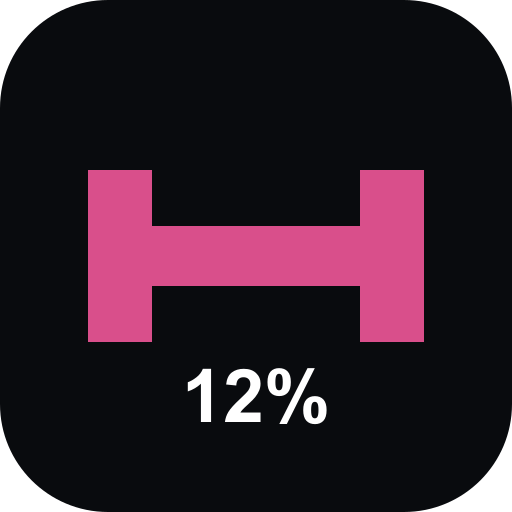
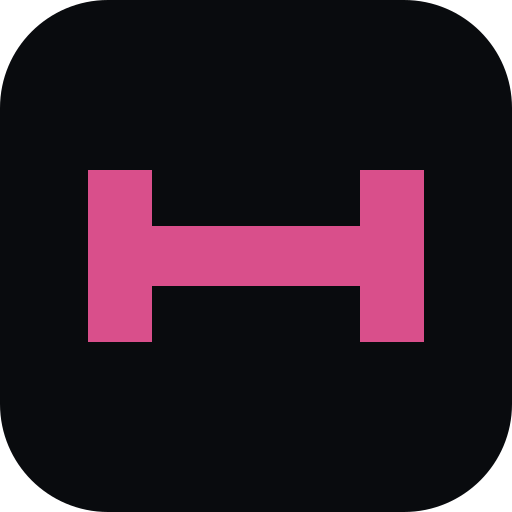
feat: complete CarrieFit workout theme

Changed region(s): [[0.3438, 0.7188, 0.6562, 0.8438]]

diff --git a/app.js b/app.js
@@ -455,7 +455,7 @@ function sessionTotals(session){
 
 function setTab(t){state.tab=t;save();render()}
 nav.forEach(b=>b.onclick=()=>setTab(b.dataset.tab));
-document.querySelector("#reset").onclick=()=>{if(confirm("Reset CarrieFit workout data?")){carriefitStorage.remove();location.reload()}};
+document.querySelector("#reset").onclick=()=>carrieConfirm({title:"Reset CarrieFit?",message:"This removes the workout data saved on this device.",confirmLabel:"Reset CarrieFit",onConfirm:()=>{carriefitStorage.remove();location.reload()}});
 function ensurePhase1Button(){
  let button=document.querySelector("#phase1LibraryButton");
  if(!button){
@@ -487,9 +487,9 @@ function showDayPlan(dayIndex=state.selectedDay){
  document.querySelector("#previewBack").onclick=()=>{state.previewDay=null;save();home()};
  document.querySelector("#previewAction").onclick=()=>{
    if(day.action==="progress")return setTab("progress");
-   if(!isToday&&!confirm(`Start ${day.title} early?`))return;
-   const selectedSchedule=previewScheduleForDay(state.workoutSessions,dayIndex,localDateKey());
-   startNewSession(dayIndex,selectedSchedule);setTab("workout");
+   const beginWorkout=()=>{const selectedSchedule=previewScheduleForDay(state.workoutSessions,dayIndex,localDateKey());startNewSession(dayIndex,selectedSchedule);setTab("workout");};
+   if(!isToday)return carrieConfirm({title:`Start ${day.title} early?`,message:"This begins the selected workout without changing your saved program order.",confirmLabel:"Start workout",onConfirm:beginWorkout});
+   beginWorkout();
  };
 }
 
@@ -948,7 +948,7 @@ function saveAttachmentPhoto(key,file){
      canvas.width=Math.round(img.width*scale);canvas.height=Math.round(img.height*scale);
      canvas.getContext("2d").drawImage(img,0,0,canvas.width,canvas.height);
      state.attachmentPhotos[key]=canvas.toDataURL("image/jpeg",.76);
-     try{save();equipment()}catch(err){alert("That photo is too large to store. Try a closer photo or screenshot.");}
+     try{save();equipment()}catch(err){carrieNotice("Photo too large","Try a closer photo or screenshot.");}
    };
    img.src=reader.result;
  };
@@ -960,7 +960,7 @@ function sessionDetail(session){
  <section class="card"><h2>Exercises completed</h2><div class="history-exercise-list">${(session.exercises||[]).length?(session.exercises||[]).map(ex=>`<details class="history-exercise" open><summary><span><strong>${ex.name}</strong>${ex.originalExercise?`<small>Substituted for ${ex.originalExercise}</small>`:""}</span><span>${(ex.sets||[]).filter(s=>s?.done).length} sets</span></summary><div class="history-set-head"><span>SET</span><span>${ex.weightEntry?.mode==="dual"?"LB / STACK":"WEIGHT"}</span><span>REPS</span><span>STATUS</span></div>${(ex.sets||[]).map((s,i)=>`<div class="history-set-row"><strong>${i+1}</strong><span>${s?.weight!==undefined&&s?.weight!==""?`${s.weight} lb`:"—"}${ex.weightEntry?.mode==="dual"&&s?.weight?`<small>${Number(s.weight)*2} lb combined selected</small>`:""}</span><span>${s?.reps||"—"}</span><span>${s?.done?"✓ Complete":"Not marked"}</span></div>`).join("")||'<p class="muted">No set details were stored.</p>'}<div class="history-weight-note"><strong>${ex.weightEntry?.label||"Weight used"}</strong><p>${ex.weightEntry?.help||""}</p></div></details>`).join(""):'<p class="muted">The older session record did not contain exercise details.</p>'}</div></section>
  <button class="secondary" id="repeatHistory">Repeat this workout</button>`;
  document.querySelector("#historyBack").onclick=()=>{state.historyView=null;save();progress()};
- document.querySelector("#repeatHistory").onclick=()=>{if(confirm("Start a new Full Body A workout? This saved session will not be changed.")){state.historyView=null;startNewSession();setTab("workout")}};
+ document.querySelector("#repeatHistory").onclick=()=>carrieConfirm({title:"Repeat this workout?",message:"A new Full Body A workout will start. This saved session will not be changed.",confirmLabel:"Start workout",onConfirm:()=>{state.historyView=null;startNewSession();setTab("workout")}});
 }
 
 /* =========================================================
@@ -1372,11 +1372,11 @@ function importV1131Backup(file){
      if(incoming.waist)state.waist=incoming.waist;
      if(incoming.preferredName)state.preferredName=incoming.preferredName;
      save();
-     alert(`Backup imported. ${state.history.length} workout${state.history.length===1?"":"s"} available.`);
+     carrieNotice("Backup imported",`${state.history.length} workout${state.history.length===1?"":"s"} available.`);
      state.historyView=null;
      progress();
    }catch(error){
-     alert(`Could not import backup: ${error.message}`);
+     carrieNotice("Could not import backup",error.message);
    }
  };
  reader.readAsText(file);
@@ -2156,12 +2156,12 @@ function workoutLanding(){
   };
 
   document.querySelector("#restartWorkout")?.addEventListener("click",()=>{
-    if(confirm(`Restart ${plan.title} from the beginning?`)){
+    carrieConfirm({title:`Restart ${plan.title}?`,message:"Your current progress in this workout will be replaced and the session will begin again.",confirmLabel:"Restart workout",onConfirm:()=>{
       startNewSession(dayIndex);
       state.tab="workout";
       save();
       workout();
-    }
+    }});
   });
 }
 
@@ -2310,6 +2310,19 @@ function v42Dialog(content,label="Dialog",options={}){
  requestAnimationFrame(()=>overlay.querySelector("#v42DialogTitle")?.focus());
  return overlay;
 }
+function carrieConfirm({title,message,confirmLabel="Continue",onConfirm}){
+ const safeTitle=escapeAdaptiveText(title),safeMessage=escapeAdaptiveText(message),safeConfirmLabel=escapeAdaptiveText(confirmLabel);
+ const dialog=v42Dialog(`<span class="pill">CARRIEFIT</span><h2>${safeTitle}</h2><p>${safeMessage}</p><div class="v42-dialog-actions"><button class="primary" id="carrieDialogConfirm" type="button">${safeConfirmLabel}</button><button class="secondary" id="carrieDialogCancel" type="button">Cancel</button></div>`,safeTitle,{showClose:false});
+ dialog.querySelector("#carrieDialogConfirm").onclick=()=>{closeV42Dialog();onConfirm?.()};
+ dialog.querySelector("#carrieDialogCancel").onclick=closeV42Dialog;
+ return dialog;
+}
+function carrieNotice(title,message){
+ const safeTitle=escapeAdaptiveText(title),safeMessage=escapeAdaptiveText(message);
+ const dialog=v42Dialog(`<span class="pill">CARRIEFIT</span><h2>${safeTitle}</h2><p>${safeMessage}</p><div class="v42-dialog-actions"><button class="primary" id="carrieDialogOkay" type="button">Okay</button></div>`,safeTitle,{showClose:false});
+ dialog.querySelector("#carrieDialogOkay").onclick=closeV42Dialog;
+ return dialog;
+}
 function explainCalendarItem(kind,key){
  const item=(kind==="status"?V42_STATUS:V42_TYPES)[key];
  v42Dialog(`<span class="legend-dialog-icon">${item.icon}</span><h2>${item.label}</h2><p>${item.description}</p>`,item.label);
@@ -2392,7 +2405,7 @@ function applyWorkoutReschedule(session,targetDate){
    localDateKey()
  );
  if(!moved){
-   alert("Choose an available training date. Completed workouts and protected rest days cannot be moved.");
+   carrieNotice("Choose another date","Completed workouts and protected rest days cannot be moved.");
    return;
  }
  save();

diff --git a/app.css b/app.css
@@ -2356,3 +2356,99 @@ button:focus-visible,input:focus-visible,select:focus-visible,textarea:focus-vis
 @media(prefers-color-scheme:dark){
   :root{color-scheme:light}
 }
+
+/* CarrieFit v1.1.2 — complete workout and dialog theme */
+body.workout-mode{background:radial-gradient(circle at 50% -100px,rgba(217,79,139,.16),transparent 330px),var(--bg)}
+body.workout-mode header{border-color:var(--line);background:transparent}
+.workout-launch-card,
+.workout-card,
+.v111-workout-card,
+.timer-card,
+.workout-rating,
+.session-detail-header,
+.day-preview-card{border-color:var(--line);background:linear-gradient(145deg,#fff,#fff8fc);color:var(--plum);box-shadow:var(--shadow)}
+.workout-launch-card h2,
+.workout-card h2,
+.workout-card h3,
+.workout-rating h3,
+.session-detail-header h2{color:var(--plum)}
+.launch-summary div,
+.brief-grid div,
+.setup-grid div,
+.preview-exercise-list li,
+.setup-section,
+.movement-instructions,
+.setup-route>div,
+.exercise-visual-section,
+.why-card,
+.weight-coach-card,
+.coach-mode-card,
+.attachment-card,
+.position-card,
+.performance-step,
+.pin-guide,
+.pin-chip,
+.sequence-step,
+.weight-entry-explainer,
+.locker-item,
+.history-exercise,
+.history-card,
+.recovery-workout-facts>div{border-color:var(--line);background:#fffafd;color:var(--plum)}
+.preview-exercise-list li span,
+.setup-section .section-number,
+.section-heading>span,
+.setup-route>div>span,
+.performance-index,
+.sequence-step>span{background:#f6d9e6;color:var(--pink-deep)}
+.setup-section small,
+.section-heading small,
+.sequence-step>strong,
+.weight-entry-explainer .previous-weight{color:var(--pink-deep)}
+.setup-section p,
+.sequence-step p,
+.weight-entry-explainer p,
+.weight-entry-explainer small,
+.rest-coach-message{color:#665660}
+.setup-block-banner,
+.compact-block-banner{border-color:#c8dfd4;background:#edf8f3}.setup-block-banner small{color:#2d7859}.setup-block-banner span{color:#617068}
+.pin-values span{border-color:#e2cbd6;background:#f9e8f0;color:var(--plum)}
+.plate-calculator{border-color:#ead3a9;background:#fff9ec}.plate-result{background:#fff3d9;color:#7f5819}
+.set-table-head{color:var(--muted)}
+.set-row input{box-shadow:inset 0 0 0 1px rgba(217,79,139,.03)}
+.combined-weight{color:#2e7e5d}
+.timer-card{background:linear-gradient(145deg,#fff,#fff0f6)}
+.timer{color:var(--pink-deep);text-shadow:0 4px 14px rgba(217,79,139,.12)}
+.timer-controls .secondary{background:#fae9f1;color:var(--plum)}
+.workout-actions{background:linear-gradient(180deg,rgba(255,247,251,0),rgba(255,247,251,.96) 25%,#fff7fb)}
+.rating-grid button,
+.coach-controls button{border-color:var(--line);background:#fffafd;color:var(--plum)}
+.rating-grid .selected,
+.coach-controls button.active{border-color:var(--pink);background:#fbe1ec;color:var(--pink-deep)}
+.workout-rating textarea{border-color:var(--line);background:#fff;color:var(--plum)}
+.exercise-asset-button{border-color:#e5ced9;background:#fff;color:var(--plum)}
+.exercise-asset-button span{color:var(--pink-deep);background:#fff7fb}
+.exercise-asset-image{background:#f9f1f5}
+.asset-overlay{background:rgba(72,44,58,.58)}
+.asset-overlay-panel{border-color:#decbd5;background:#fffafd;color:var(--plum);box-shadow:0 24px 80px rgba(81,40,61,.24)}
+.asset-overlay-panel img{background:#f8eff4}.asset-overlay-panel p{color:var(--muted)}
+.asset-close{border-color:var(--line);background:#f8eaf1;color:var(--plum)}
+.v42-dialog{background:rgba(72,44,58,.48)}
+.v42-dialog-card{color:var(--plum);background:linear-gradient(145deg,#fff,#fff7fb)}
+.v42-dialog-card p{color:#665660;line-height:1.5}
+.v42-dialog-actions{display:grid;gap:10px;margin-top:18px}
+.v42-dialog-actions .secondary{margin:0}
+.recovery-note{border-color:#e7c4d4;background:#fff0f6;color:#69475a}
+.history-set-head{border-color:var(--line);color:var(--muted)}
+.history-set-row{border-color:#f0e1e8;color:var(--plum)}
+.history-weight-note{background:#fff3f8}.history-weight-note p{color:var(--muted)}
+.complete .check,.history-check{background:#e2f3eb;color:#287554}
+.teaching-card,
+.instruction-block,
+.quick-setting{border-color:var(--line);background:#fffafd;color:var(--plum)}
+.teaching-card small,
+.instruction-block>small,
+.media-status{color:var(--pink-deep)}
+.instruction-block.mistakes{border-color:#e8bfd1;background:#fff0f6}
+.exercise-media-card.media-unavailable{border-color:#ead3a9;background:#fff9ec;color:var(--plum)}
+.exercise-media-card.media-unavailable p{color:#6f605f}
+.quick-setting small{color:var(--muted)}

diff --git a/index.html b/index.html
@@ -4,7 +4,7 @@
 <meta name="theme-color" content="#0b0d10"><meta name="apple-mobile-web-app-capable" content="yes">
 <meta name="apple-mobile-web-app-status-bar-style" content="black-translucent">
 <meta name="apple-mobile-web-app-title" content="CarrieFit">
-<link rel="manifest" href="manifest.webmanifest"><link rel="apple-touch-icon" sizes="180x180" href="assets/apple-touch-icon.png?v=2026.08.06.1"><link rel="icon" type="image/svg+xml" href="assets/icon.svg?v=2026.08.06.1"><link rel="stylesheet" href="app.css"><script src="app-meta.js"></script><script src="exercise-library.js"></script><script src="scheduling.js"></script><script src="workout-navigation.js"></script>
+<link rel="manifest" href="manifest.webmanifest"><link rel="apple-touch-icon" sizes="180x180" href="assets/apple-touch-icon.png?v=2026.08.06.2"><link rel="icon" type="image/svg+xml" href="assets/icon.svg?v=2026.08.06.2"><link rel="stylesheet" href="app.css"><script src="app-meta.js"></script><script src="exercise-library.js"></script><script src="scheduling.js"></script><script src="workout-navigation.js"></script>
 <script src="adaptive-coaching.js"></script><title>CarrieFit</title></head>
 <body><div class="shell">
 <header><div><p id="gymBrand">CARRIE'S HOME GYM</p><h1>CarrieFit</h1></div><button id="reset">Reset</button></header>

diff --git a/app-meta.js b/app-meta.js
@@ -1,9 +1,9 @@
 (function (root) {
   root.CARRIEFIT_META = Object.freeze({
-    version: "1.1.1",
-    build: "2026.08.06.1",
+    version: "1.1.2",
+    build: "2026.08.06.2",
     lastUpdated: "August 6, 2026",
     gitCommit: null,
-    serviceWorkerCache: "carriefit-v1-1-1-shell"
+    serviceWorkerCache: "carriefit-v1-1-2-shell"
   });
 })(typeof self !== "undefined" ? self : window);

diff --git a/scripts/test-offline-pwa.js b/scripts/test-offline-pwa.js
@@ -121,7 +121,7 @@ async function dispatchFetch(url) {
 
 (async () => {
   const cacheName = context.self.CARRIEFIT_META.serviceWorkerCache;
-  assert.strictEqual(cacheName, "carriefit-v1-1-1-shell");
+  assert.strictEqual(cacheName, "carriefit-v1-1-2-shell");
 
   await dispatchExtendable("install");
   assert.strictEqual(skipWaitingCalled, true, "new worker must activate promptly");

diff --git a/sw.js b/sw.js
@@ -1,5 +1,5 @@
 /* Keep this query aligned with app-meta.js so Safari cannot reuse stale imported metadata. */
-importScripts("./app-meta.js?build=2026.08.06.1");
+importScripts("./app-meta.js?build=2026.08.06.2");
 
 const CACHE=self.CARRIEFIT_META.serviceWorkerCache;
 const CACHE_PREFIX="carriefit-";

diff --git a/docs/PROJECT_CONTEXT.md b/docs/PROJECT_CONTEXT.md
@@ -3,10 +3,10 @@
 ## Current production candidate
 
 - Product: CarrieFit
-- Version: 1.1.1
-- Build: 2026.08.06.1
+- Version: 1.1.2
+- Build: 2026.08.06.2
 - Last updated: August 6, 2026
-- Service Worker cache: `carriefit-v1-1-1-shell`
+- Service Worker cache: `carriefit-v1-1-2-shell`
 - Runtime: static, client-only, offline-first PWA
 - Primary storage key: `carriefitv5`
 
@@ -16,7 +16,9 @@ CarrieFit is the wife-focused sibling of Road to 12%. It shares the mature worko
 
 The approved visual direction is a polished pink system: warm blush canvas, white and pale-pink elevated surfaces, rose primary actions, plum text, and restrained amber and green semantic states. It applies consistently across every primary screen and modal without changing navigation or product behavior.
 
-The installed iPhone Home Screen icon uses the original dumbbell composition with its dumbbell recolored to CarrieFit rose pink (`#d94f8b`). Safari receives an explicit 180 px Apple touch icon, and the web app manifest includes standard 192 px and 512 px install icons.
+The installed iPhone Home Screen icon is a clean CarrieFit rose-pink (`#d94f8b`) dumbbell without Road to 12% goal text. Safari receives an explicit 180 px Apple touch icon, and the web app manifest includes standard 192 px and 512 px install icons.
+
+The polished pink system covers the entire workout journey as well as the five primary screens: workout launch and preview cards, active-exercise surfaces, setup instructions, set entry, timers, feedback, completion, media overlays, and workout-related dialogs all use light blush, white, rose, and plum surfaces.
 
 The program uses the same home-gym equipment and prioritizes sustainable fat loss, muscle retention and definition, lower-body and glute strength, posture, aerobic fitness, core control, mobility, and recovery. Exercise selection is based on goal, movement quality, available equipment, and recovery—not gender stereotypes.
 

diff --git a/docs/CHANGELOG.md b/docs/CHANGELOG.md
@@ -14,6 +14,9 @@ The format follows [Keep a Changelog](https://keepachangelog.com/en/1.1.0/), and
 
 ### Changed
 
+- Removed the Road to 12% goal text from CarrieFit's installed app icon, leaving a clean pink dumbbell mark.
+- Extended the polished pink design system through workout launch, active exercises, setup guidance, timers, set entry, workout feedback, completion, and workout-related dialogs.
+- Advanced CarrieFit to version 1.1.2 and rotated the offline shell cache for the completed workout-theme release.
 - Recolored CarrieFit's dumbbell app icon from red to the approved rose pink and added explicit iPhone Home Screen and install-icon metadata.
 - Advanced CarrieFit to version 1.1.1 and rotated the offline shell cache for the app-icon release.
 - Applied the approved polished pink design system across Home, Calendar, workouts, exercise guides, Progress, Profile, coaching, dialogs, controls, and navigation.
